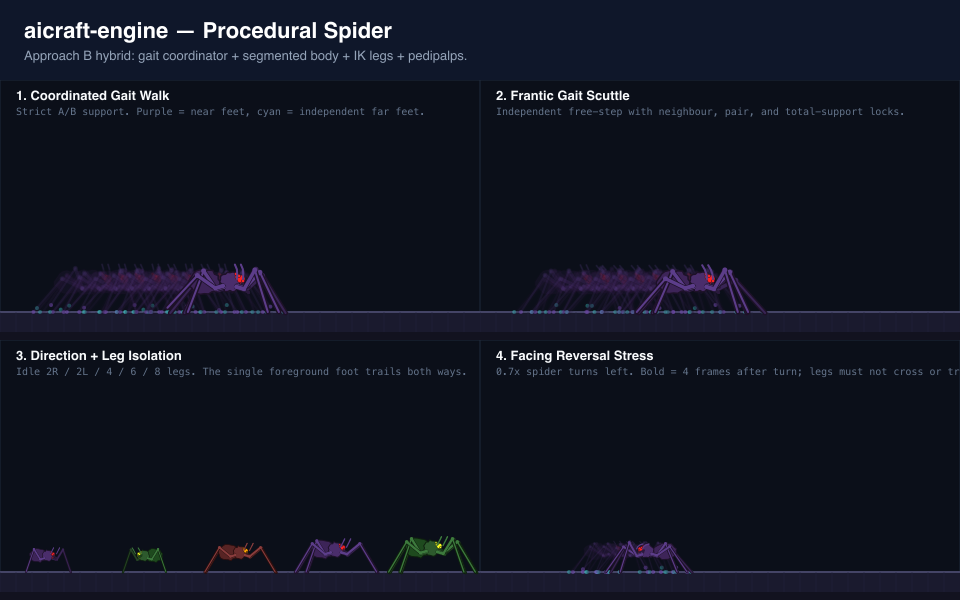
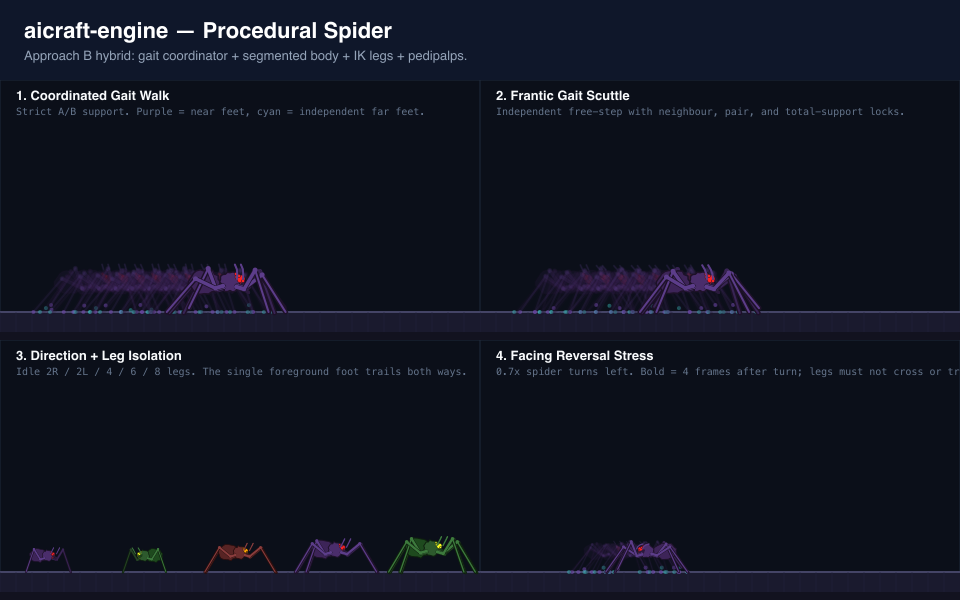
Spider: fix swing arc distortion and backward steps
Remove sector projection from swing samples — it distorted the Bezier
arc by up to 6px on small steps, causing the visual 'skating' effect.
Store raw Bezier positions; the renderer already projects into the
valid workspace with bounded correction.

Clamp extension-aware overshoot so over-extended legs can't push the
target behind rest (no backward steps). Previously a leg at >66%
extension could get a negative correction exceeding the velocity
overshoot, producing the 'lift without stepping forward' defect.

diff --git a/src/animation/spider/gait.ts b/src/animation/spider/gait.ts
@@ -546,30 +546,21 @@ export function advanceGait(
           isSwinging: false,
         });
       } else {
-        // Interpolate along the step arc, then project the sample into the
-        // anatomical sector at its Y using the CURRENT body/facing/coxa. This
-        // is gait geometry (same shared helper as the renderer), not renderer
-        // feedback: it keeps the authoritative footX/footY sector-valid so the
-        // stored planted position after landing — and any immediate reversal
-        // rebase — starts from a feasible point. Fixed segment lengths are
-        // never altered; only the foot target X is moved outward to the nearest
-        // sector-valid position at the sample's (preserved) Y.
+        // Store the raw Bezier position. The renderer's solveThreeSegmentLeg
+        // already projects into the valid workspace; projecting here through
+        // projectGroundedTargetIntoWorkspace distorts the arc by up to 6px on
+        // small steps, producing the visual "skating" effect where feet slide
+        // sideways instead of following a natural lift-and-plant trajectory.
         const raw = sampleStepArc(
           { x: leg.startX, y: leg.startY },
           { x: leg.midX, y: leg.midY },
           { x: leg.endX, y: leg.endY },
           newStepPhase,
         );
-        const restLocalVec = { x: leg.restLocalX, y: leg.restLocalY };
-        const hip = computeHipPosition(bodyX, bodyY, safeFacing, restLocalVec, geometry);
-        const coxa = computeCoxaEndpoint(hip, safeFacing, restLocalVec, geometry);
-        const projected = projectGroundedTargetIntoWorkspace(
-          coxa, raw, geometry, safeFacing, leg.restLocalX,
-        );
         newLegs.push({
           ...leg,
-          footX: projected.x,
-          footY: projected.y,
+          footX: raw.x,
+          footY: raw.y,
           stepPhase: newStepPhase,
         });
       }
@@ -707,10 +698,19 @@ export function advanceGait(
           const currentRatio = totalFemurTibia > 0 ? coxaToFoot / totalFemurTibia : 0;
           const midRatio = (geometry.minExtensionRatio + geometry.maxExtensionRatio) / 2;
           const deficit = midRatio - currentRatio;
-          const extensionCorrection = deficit * totalFemurTibia * safeFacing;
+          const velocityOvershoot = vx * config.overshootFactor;
+          // Clamp correction: compressed legs get extra forward push, but
+          // extended legs can't push the target behind rest (no backward
+          // steps). This prevents the "lift and come down without stepping
+          // forward" defect.
+          const maxNegativeCorrection = Math.min(0, velocityOvershoot);
+          const rawCorrection = deficit * totalFemurTibia * safeFacing;
+          const extensionCorrection = rawCorrection < maxNegativeCorrection
+            ? maxNegativeCorrection
+            : rawCorrection;
 
           // Compute overshoot target with extension correction
-          const targetX = restWorldX + vx * config.overshootFactor + extensionCorrection;
+          const targetX = restWorldX + velocityOvershoot + extensionCorrection;
           const targetY = restWorldY + vy * config.overshootFactor;
 
           // Lazy ground sampling (downward only, v1)
